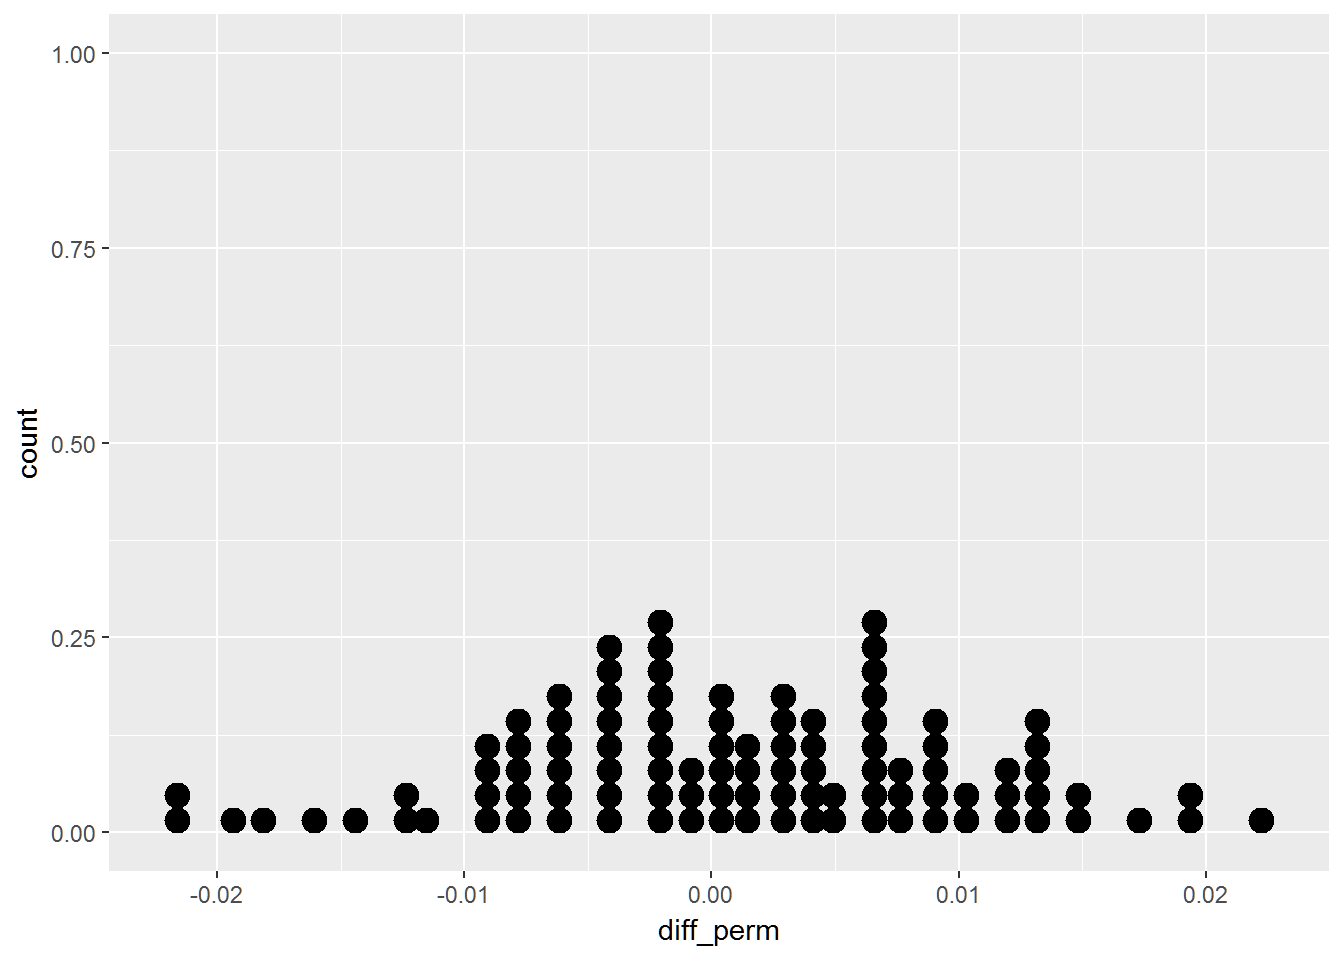
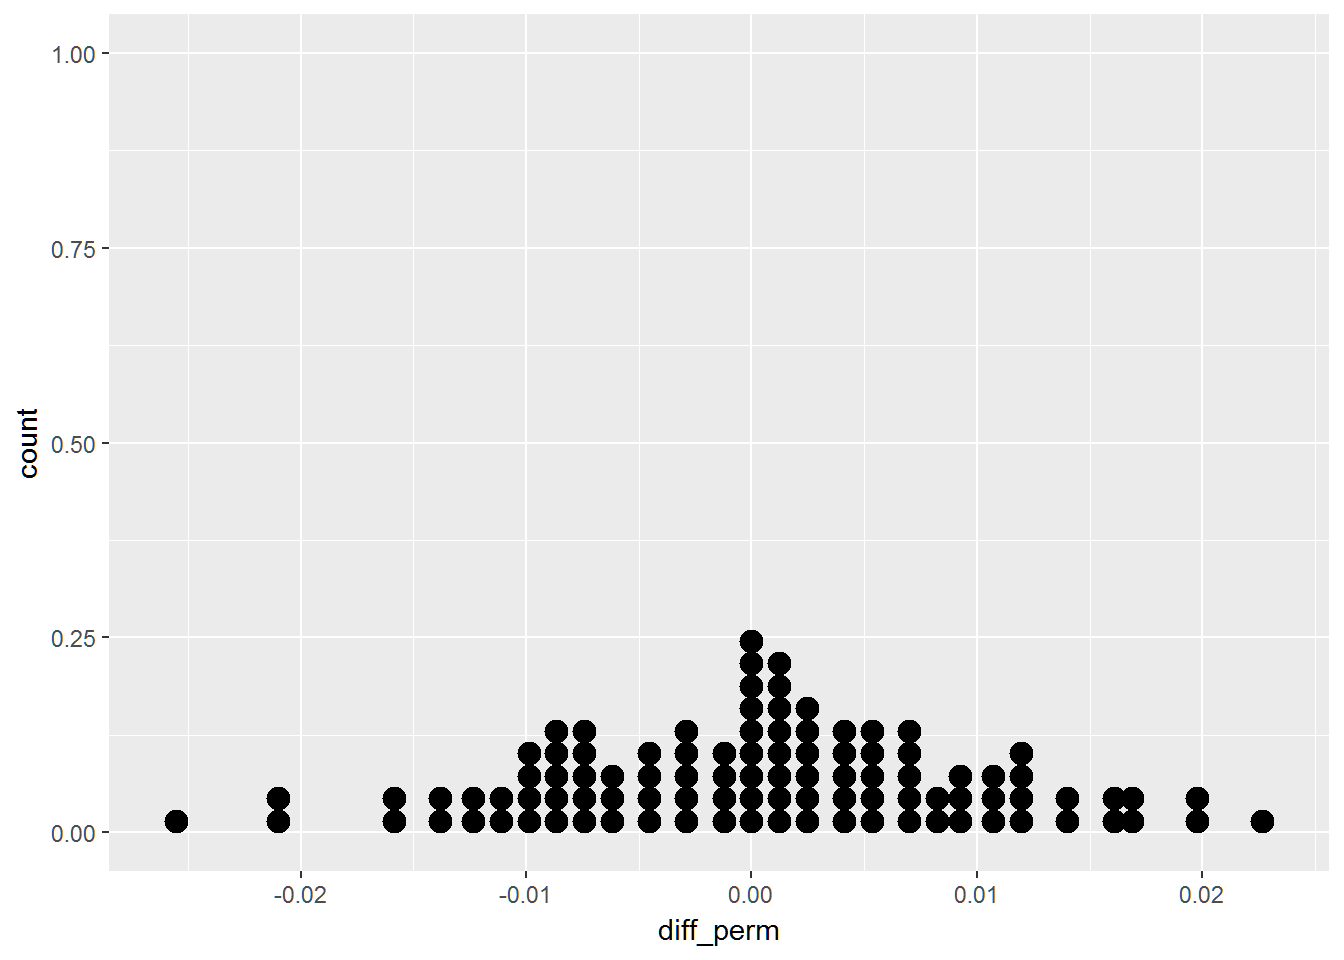
Started new section on gender discrim.

diff --git a/docs/foundations-of-inference.html b/docs/foundations-of-inference.html
@@ -108,6 +108,7 @@ code > span.in { color: #60a0b0; font-weight: bold; font-style: italic; } /* Inf
 <li class="chapter" data-level="1.1" data-path="foundations-of-inference.html"><a href="foundations-of-inference.html#introduction-to-inference"><i class="fa fa-check"></i><b>1.1</b> Introduction to Inference</a></li>
 <li class="chapter" data-level="1.2" data-path="foundations-of-inference.html"><a href="foundations-of-inference.html#home-ownership-by-gender"><i class="fa fa-check"></i><b>1.2</b> Home Ownership by Gender</a></li>
 <li class="chapter" data-level="1.3" data-path="foundations-of-inference.html"><a href="foundations-of-inference.html#density-plots"><i class="fa fa-check"></i><b>1.3</b> Density Plots</a></li>
+<li class="chapter" data-level="1.4" data-path="foundations-of-inference.html"><a href="foundations-of-inference.html#gender-discrimination"><i class="fa fa-check"></i><b>1.4</b> Gender Discrimination</a></li>
 </ul></li>
 <li class="chapter" data-level="" data-path="references.html"><a href="references.html"><i class="fa fa-check"></i>References</a></li>
 <li class="divider"></li>
@@ -222,7 +223,7 @@ homes %&gt;%
 <pre><code>## # A tibble: 1 × 2
 ##      diff_perm    diff_orig
 ##          &lt;dbl&gt;        &lt;dbl&gt;
-## 1 -0.007828723 0.0008207949</code></pre>
+## 1 -0.007828723 -0.002062378</code></pre>
 <p>It is easier to see what is going on by breaking the results down iteratively. Our selected and filtered homes dataset looks like.</p>
 <div class="sourceCode"><pre class="sourceCode r"><code class="sourceCode r"><span class="kw">head</span>(homes)</code></pre></div>
 <pre><code>## # A tibble: 6 × 2
@@ -244,9 +245,9 @@ homes %&gt;%
 ## 
 ##   Gender HomeOwn HomeOwn_perm
 ##   &lt;fctr&gt;  &lt;fctr&gt;       &lt;fctr&gt;
-## 1   male    Rent         Rent
-## 2   male    Rent         Rent
-## 3 female     Own          Own
+## 1   male    Rent          Own
+## 2   male    Rent          Own
+## 3 female     Own         Rent
 ## 4   male     Own          Own
 ## 5   male     Own          Own
 ## 6   male     Own          Own</code></pre>
@@ -263,17 +264,17 @@ homes3</code></pre></div>
 <pre><code>## # A tibble: 2 × 3
 ##   Gender prop_own_perm  prop_own
 ##   &lt;fctr&gt;         &lt;dbl&gt;     &lt;dbl&gt;
-## 1 female     0.6627812 0.6654397
-## 2   male     0.6603069 0.6576109</code></pre>
+## 1 female     0.6660532 0.6654397
+## 2   male     0.6569888 0.6576109</code></pre>
 <p>FFinally we calculate the differences in ownership - note that the difference for the permuted value here may be different from the full code above, as it a new random permutation and we have used the set.seed() function which would create an identical permutation.</p>
 <div class="sourceCode"><pre class="sourceCode r"><code class="sourceCode r">homes4 &lt;-<span class="st"> </span>homes3 %&gt;%<span class="st"> </span>
 <span class="st">  </span><span class="kw">summarize</span>(<span class="dt">diff_perm =</span> <span class="kw">diff</span>(prop_own),
   <span class="dt">diff_orig =</span> <span class="kw">diff</span>(prop_own_perm))
 homes4</code></pre></div>
 <pre><code>## # A tibble: 1 × 2
-##      diff_perm   diff_orig
-##          &lt;dbl&gt;       &lt;dbl&gt;
-## 1 -0.007828723 -0.00247426</code></pre>
+##      diff_perm    diff_orig
+##          &lt;dbl&gt;        &lt;dbl&gt;
+## 1 -0.007828723 -0.009064368</code></pre>
 </div>
 <div id="density-plots" class="section level2">
 <h2><span class="header-section-number">1.3</span> Density Plots</h2>
@@ -320,13 +321,27 @@ homeown_perm %&gt;%
 <span class="st">  </span><span class="kw">summarize</span>(<span class="kw">sum</span>(diff_orig &gt;=<span class="st"> </span>diff_perm)) /<span class="dv">1000</span> *<span class="st"> </span><span class="dv">100</span></code></pre></div>
 <pre><code>##   sum(diff_orig &gt;= diff_perm)
 ## 1                        20.5</code></pre>
-<p>So in this instance, when we set the seed of 666 we end up with 20.5% of randomly shuffled (permuted) differences being greater than the observed difference, so the observed difference is consistent with the null hypothesis. That it to say it is within the range we may expect by chance alone, were we to repeat the exercise, although we should specify a distribtion we are comparing against, in this which is inferred as being the normal distribution in this instance. <strong>We can therefore say that there is no statistically significant difference between gender and home ownership</strong>.</p>
+<p>So in this instance, when we set the seed of 666 we end up with 20.5% of randomly shuffled (permuted) differences being greater than the observed difference, so the observed difference is consistent with the null hypothesis. That it to say it is within the range we may expect by chance alone, were we to repeat the exercise, although we should specify a distribtion we are comparing against, in this which is inferred as being the normal distribution in this instance. <strong>We can therefore say that there is no statistically significant difference between gender and home ownership</strong>. Or put more formally</p>
+<blockquote>
+<p><strong>We fail to reject the null hypothesis:</strong> There is no evidence that our data are inconsistent with the null hypothesis</p>
+</blockquote>
+</div>
+<div id="gender-discrimination" class="section level2">
+<h2><span class="header-section-number">1.4</span> Gender Discrimination</h2>
+<p>In this example we use data from <span class="citation">Rosen and Jerdee (<a href="#ref-Rosen1974">1974</a>)</span>, where 48 male bank supervisors were given personal files and asked if they should be promoted to Branch Manager. All files were identical, but half (24) were named as female, and the other half (24) were named male. The results showed 21 males were promoted and 14 females, meaning 35 of the total 48 were promoted. Do we know statistically if there is significant?</p>
+<ul>
+<li><strong>Null Hypothesis <span class="math inline">\(H_{0}\)</span></strong>: Gender and promotion are unrelated variables</li>
+<li><strong>Alternate Hypothesis <span class="math inline">\(H_{A}\)</span></strong>: Men are more likely to be promoted</li>
+</ul>
 </div>
 </div>
 <h3>References</h3>
 <div id="refs" class="references">
 <div id="ref-Huberty1993">
 <p>Huberty, Carl J. 1993. “Historical Origins of Statistical Testing Practices.” <em>The Journal of Experimental Education</em> 61 (4): 317–33.</p>
+</div>
+<div id="ref-Rosen1974">
+<p>Rosen, B., and T. Jerdee. 1974. “Influence of Sex Role Stereotypes on Personnel Decisions.” <em>Journal of Applied Psychology</em> 59 (1): 9–14.</p>
 </div>
 </div>
             </section>

diff --git a/docs/references.html b/docs/references.html
@@ -108,6 +108,7 @@ code > span.in { color: #60a0b0; font-weight: bold; font-style: italic; } /* Inf
 <li class="chapter" data-level="1.1" data-path="foundations-of-inference.html"><a href="foundations-of-inference.html#introduction-to-inference"><i class="fa fa-check"></i><b>1.1</b> Introduction to Inference</a></li>
 <li class="chapter" data-level="1.2" data-path="foundations-of-inference.html"><a href="foundations-of-inference.html#home-ownership-by-gender"><i class="fa fa-check"></i><b>1.2</b> Home Ownership by Gender</a></li>
 <li class="chapter" data-level="1.3" data-path="foundations-of-inference.html"><a href="foundations-of-inference.html#density-plots"><i class="fa fa-check"></i><b>1.3</b> Density Plots</a></li>
+<li class="chapter" data-level="1.4" data-path="foundations-of-inference.html"><a href="foundations-of-inference.html#gender-discrimination"><i class="fa fa-check"></i><b>1.4</b> Gender Discrimination</a></li>
 </ul></li>
 <li class="chapter" data-level="" data-path="references.html"><a href="references.html"><i class="fa fa-check"></i>References</a></li>
 <li class="divider"></li>
@@ -136,6 +137,9 @@ code > span.in { color: #60a0b0; font-weight: bold; font-style: italic; } /* Inf
 <div id="refs" class="references">
 <div>
 <p>Huberty, Carl J. 1993. “Historical Origins of Statistical Testing Practices.” <em>The Journal of Experimental Education</em> 61 (4): 317–33.</p>
+</div>
+<div>
+<p>Rosen, B., and T. Jerdee. 1974. “Influence of Sex Role Stereotypes on Personnel Decisions.” <em>Journal of Applied Psychology</em> 59 (1): 9–14.</p>
 </div>
 </div>
 </div>

diff --git a/docs/index.html b/docs/index.html
@@ -108,6 +108,7 @@ code > span.in { color: #60a0b0; font-weight: bold; font-style: italic; } /* Inf
 <li class="chapter" data-level="1.1" data-path="foundations-of-inference.html"><a href="foundations-of-inference.html#introduction-to-inference"><i class="fa fa-check"></i><b>1.1</b> Introduction to Inference</a></li>
 <li class="chapter" data-level="1.2" data-path="foundations-of-inference.html"><a href="foundations-of-inference.html#home-ownership-by-gender"><i class="fa fa-check"></i><b>1.2</b> Home Ownership by Gender</a></li>
 <li class="chapter" data-level="1.3" data-path="foundations-of-inference.html"><a href="foundations-of-inference.html#density-plots"><i class="fa fa-check"></i><b>1.3</b> Density Plots</a></li>
+<li class="chapter" data-level="1.4" data-path="foundations-of-inference.html"><a href="foundations-of-inference.html#gender-discrimination"><i class="fa fa-check"></i><b>1.4</b> Gender Discrimination</a></li>
 </ul></li>
 <li class="chapter" data-level="" data-path="references.html"><a href="references.html"><i class="fa fa-check"></i>References</a></li>
 <li class="divider"></li>

diff --git a/docs/Foundations-of-Inference.md b/docs/Foundations-of-Inference.md
@@ -97,7 +97,7 @@ homes %>%
 ## # A tibble: 1 × 2
 ##      diff_perm    diff_orig
 ##          <dbl>        <dbl>
-## 1 -0.007828723 0.0008207949
+## 1 -0.007828723 -0.002062378
 ```
 
 It is easier to see what is going on by breaking the results down iteratively.  Our selected and filtered homes dataset looks like. 
@@ -135,9 +135,9 @@ tail(homes2)
 ## 
 ##   Gender HomeOwn HomeOwn_perm
 ##   <fctr>  <fctr>       <fctr>
-## 1   male    Rent         Rent
-## 2   male    Rent         Rent
-## 3 female     Own          Own
+## 1   male    Rent          Own
+## 2   male    Rent          Own
+## 3 female     Own         Rent
 ## 4   male     Own          Own
 ## 5   male     Own          Own
 ## 6   male     Own          Own
@@ -168,8 +168,8 @@ homes3
 ## # A tibble: 2 × 3
 ##   Gender prop_own_perm  prop_own
 ##   <fctr>         <dbl>     <dbl>
-## 1 female     0.6627812 0.6654397
-## 2   male     0.6603069 0.6576109
+## 1 female     0.6660532 0.6654397
+## 2   male     0.6569888 0.6576109
 ```
 
 FFinally we calculate the differences in ownership - note that the difference for the permuted value here may be different from the full code above, as it a new random permutation and we have used the set.seed() function which would create an identical permutation.
@@ -184,9 +184,9 @@ homes4
 
 ```
 ## # A tibble: 1 × 2
-##      diff_perm   diff_orig
-##          <dbl>       <dbl>
-## 1 -0.007828723 -0.00247426
+##      diff_perm    diff_orig
+##          <dbl>        <dbl>
+## 1 -0.007828723 -0.009064368
 ```
 
 ##Density Plots
@@ -257,8 +257,16 @@ homeown_perm %>%
 ## 1                        20.5
 ```
 
-So in this instance, when we set the seed of 666 we end up with 20.5% of randomly shuffled (permuted) differences being greater than the observed difference, so the observed difference is consistent with the null hypothesis.  That it to say it is within the range we may expect by chance alone, were we to repeat the exercise, although we should specify a distribtion we are comparing against, in this which is inferred as being the normal distribution in this instance.  __We can therefore say that there is no statistically significant difference between gender and home ownership__.
+So in this instance, when we set the seed of 666 we end up with 20.5% of randomly shuffled (permuted) differences being greater than the observed difference, so the observed difference is consistent with the null hypothesis.  That it to say it is within the range we may expect by chance alone, were we to repeat the exercise, although we should specify a distribtion we are comparing against, in this which is inferred as being the normal distribution in this instance.  __We can therefore say that there is no statistically significant difference between gender and home ownership__.  Or put more formally
 
+>__We fail to reject the null hypothesis:__
+> There is no evidence that our data are inconsistent with the null hypothesis
 
+##Gender Discrimination
+
+In this example we use data from @Rosen1974, where 48 male bank supervisors were given personal files and asked if they should be promoted to Branch Manager. All files were identical, but half (24) were named as female, and the other half (24) were named male.  The results showed 21 males were promoted and 14 females, meaning 35  of the total 48 were promoted. Do we know statistically if there is significant?  
+
+* **Null Hypothesis $H_{0}$**: Gender and promotion are unrelated variables
+* **Alternate Hypothesis $H_{A}$**: Men are more likely to be promoted
 
 # References {-}
